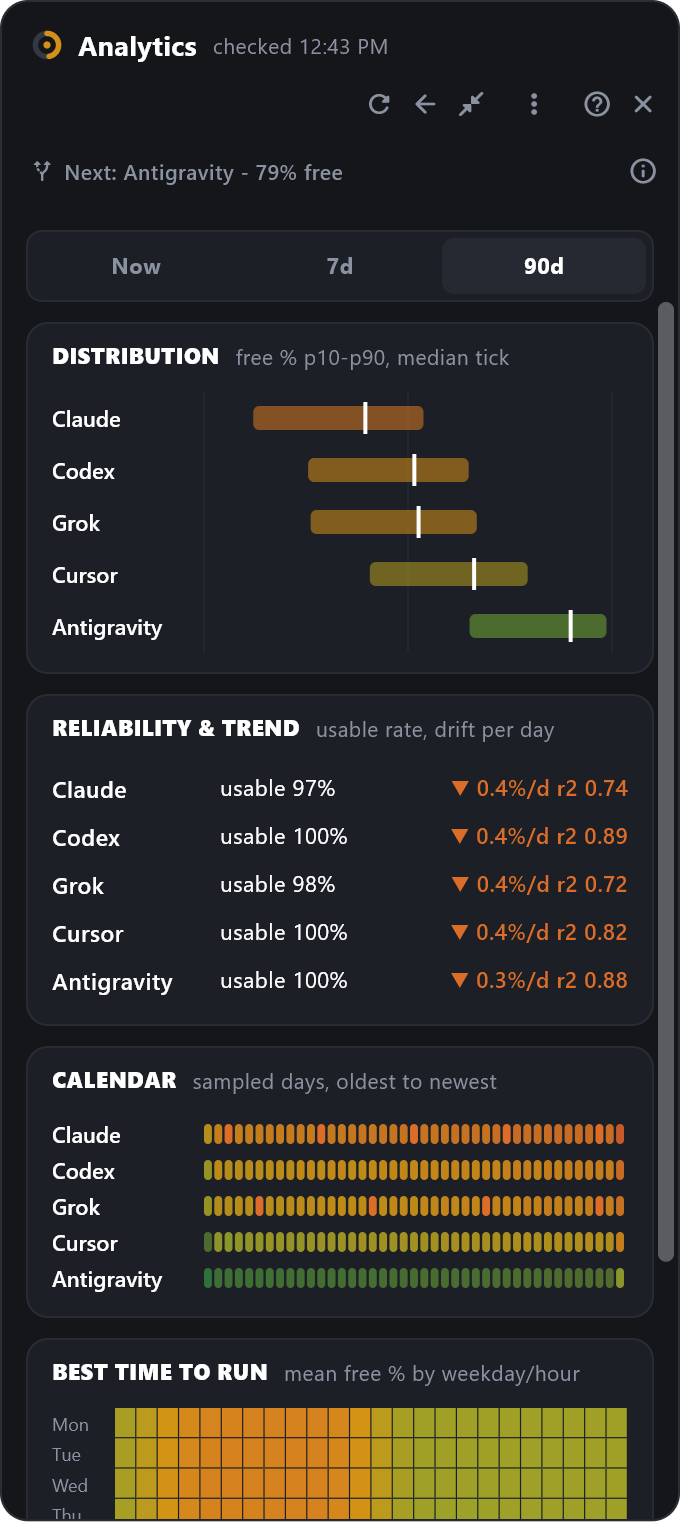
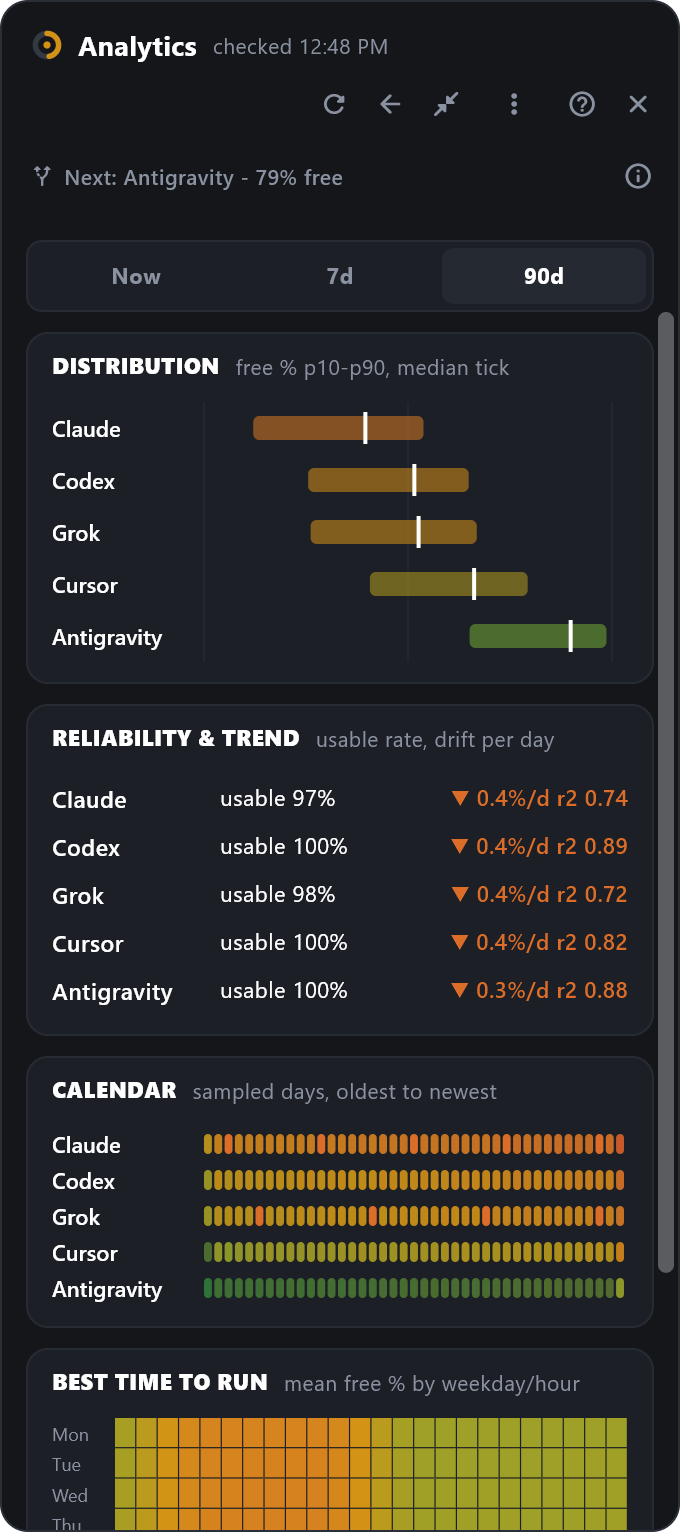
Regenerate demo assets and document the grouped top view
The README demo GIF and screenshots were captured before the recent desktop
sizing, accessibility, and routing-layout work, so the widget and analytics
frames no longer matched the shipped UI. Recapture them from demo mode.

Document the grouped top layout and the interactive fleet-read progress in the
README and usage guide, including that a failed or rejected read keeps its full
row rather than collapsing, so the docs describe what the code actually renders.

diff --git a/docs/USAGE.md b/docs/USAGE.md
@@ -430,6 +430,24 @@ Each provider row also carries a compact trust tag with live, cached, or
 provider-drift state, normalized source class, spend class, stale age when
 relevant, and account identity when needed to disambiguate duplicate providers.
 
+Rows are grouped by what you can act on. Live usable routes lead, evidence that
+is not a live route follows (a spent window, cached last-known values, or
+quarantined drift), and providers with no live quota - a passively detected tool
+with no quota API, or one that is not configured - collapse to one compact row
+each at the bottom. The group headings appear only when more than one group is
+present, so a fleet that is entirely live still reads as a plain list. A failed
+read, quarantined evidence, or a provider that answered with an HTTP error or a
+retry pushback is never treated as idle: it keeps its full row with the error and
+its recovery hint, because that is the most actionable thing on screen. Long
+detail text yields at a word boundary with an ellipsis instead of clipping
+mid-word, and the complete hint stays available from `quotabot doctor`.
+
+Because a live fleet read contacts every provider, it can take tens of seconds.
+An interactive run prints a progress line per provider as it lands, with a
+running count, elapsed time, and which providers are still outstanding, so a slow
+read is visibly working rather than indistinguishable from a hang. Piped or
+scripted runs stay silent so their output remains clean.
+
 ```bash
 quotabot top                # adaptive refresh (the default)
 quotabot top --interval=2   # pin a fixed rate instead (minimum 2s)

diff --git a/README.md b/README.md
@@ -227,8 +227,15 @@ or data shape. The exact assignments and verification methods are documented in
 
 The same view is available live in the terminal with `quotabot top`, a small
 dashboard that redraws in place and, when it has enough history, notes which
-window is likely to run out first. Full walkthrough of the widget, analytics, and
-CLI: [docs/USAGE.md](docs/USAGE.md).
+window is likely to run out first. It groups the fleet by what you can act on:
+live usable routes first, then evidence that is not a live route (spent, cached,
+or drifted), then providers with no live quota as one compact row each. Those
+headings appear only when there is more than one group, so a uniform fleet still
+reads as a plain list. A failed read, quarantined evidence, or a provider that
+answered with an error keeps its full row and recovery hint rather than being
+treated as idle. A live fleet read contacts every provider, so an interactive
+run prints its progress as each provider lands instead of a silent wait. Full
+walkthrough of the widget, analytics, and CLI: [docs/USAGE.md](docs/USAGE.md).
 
 ## Provider status
 
